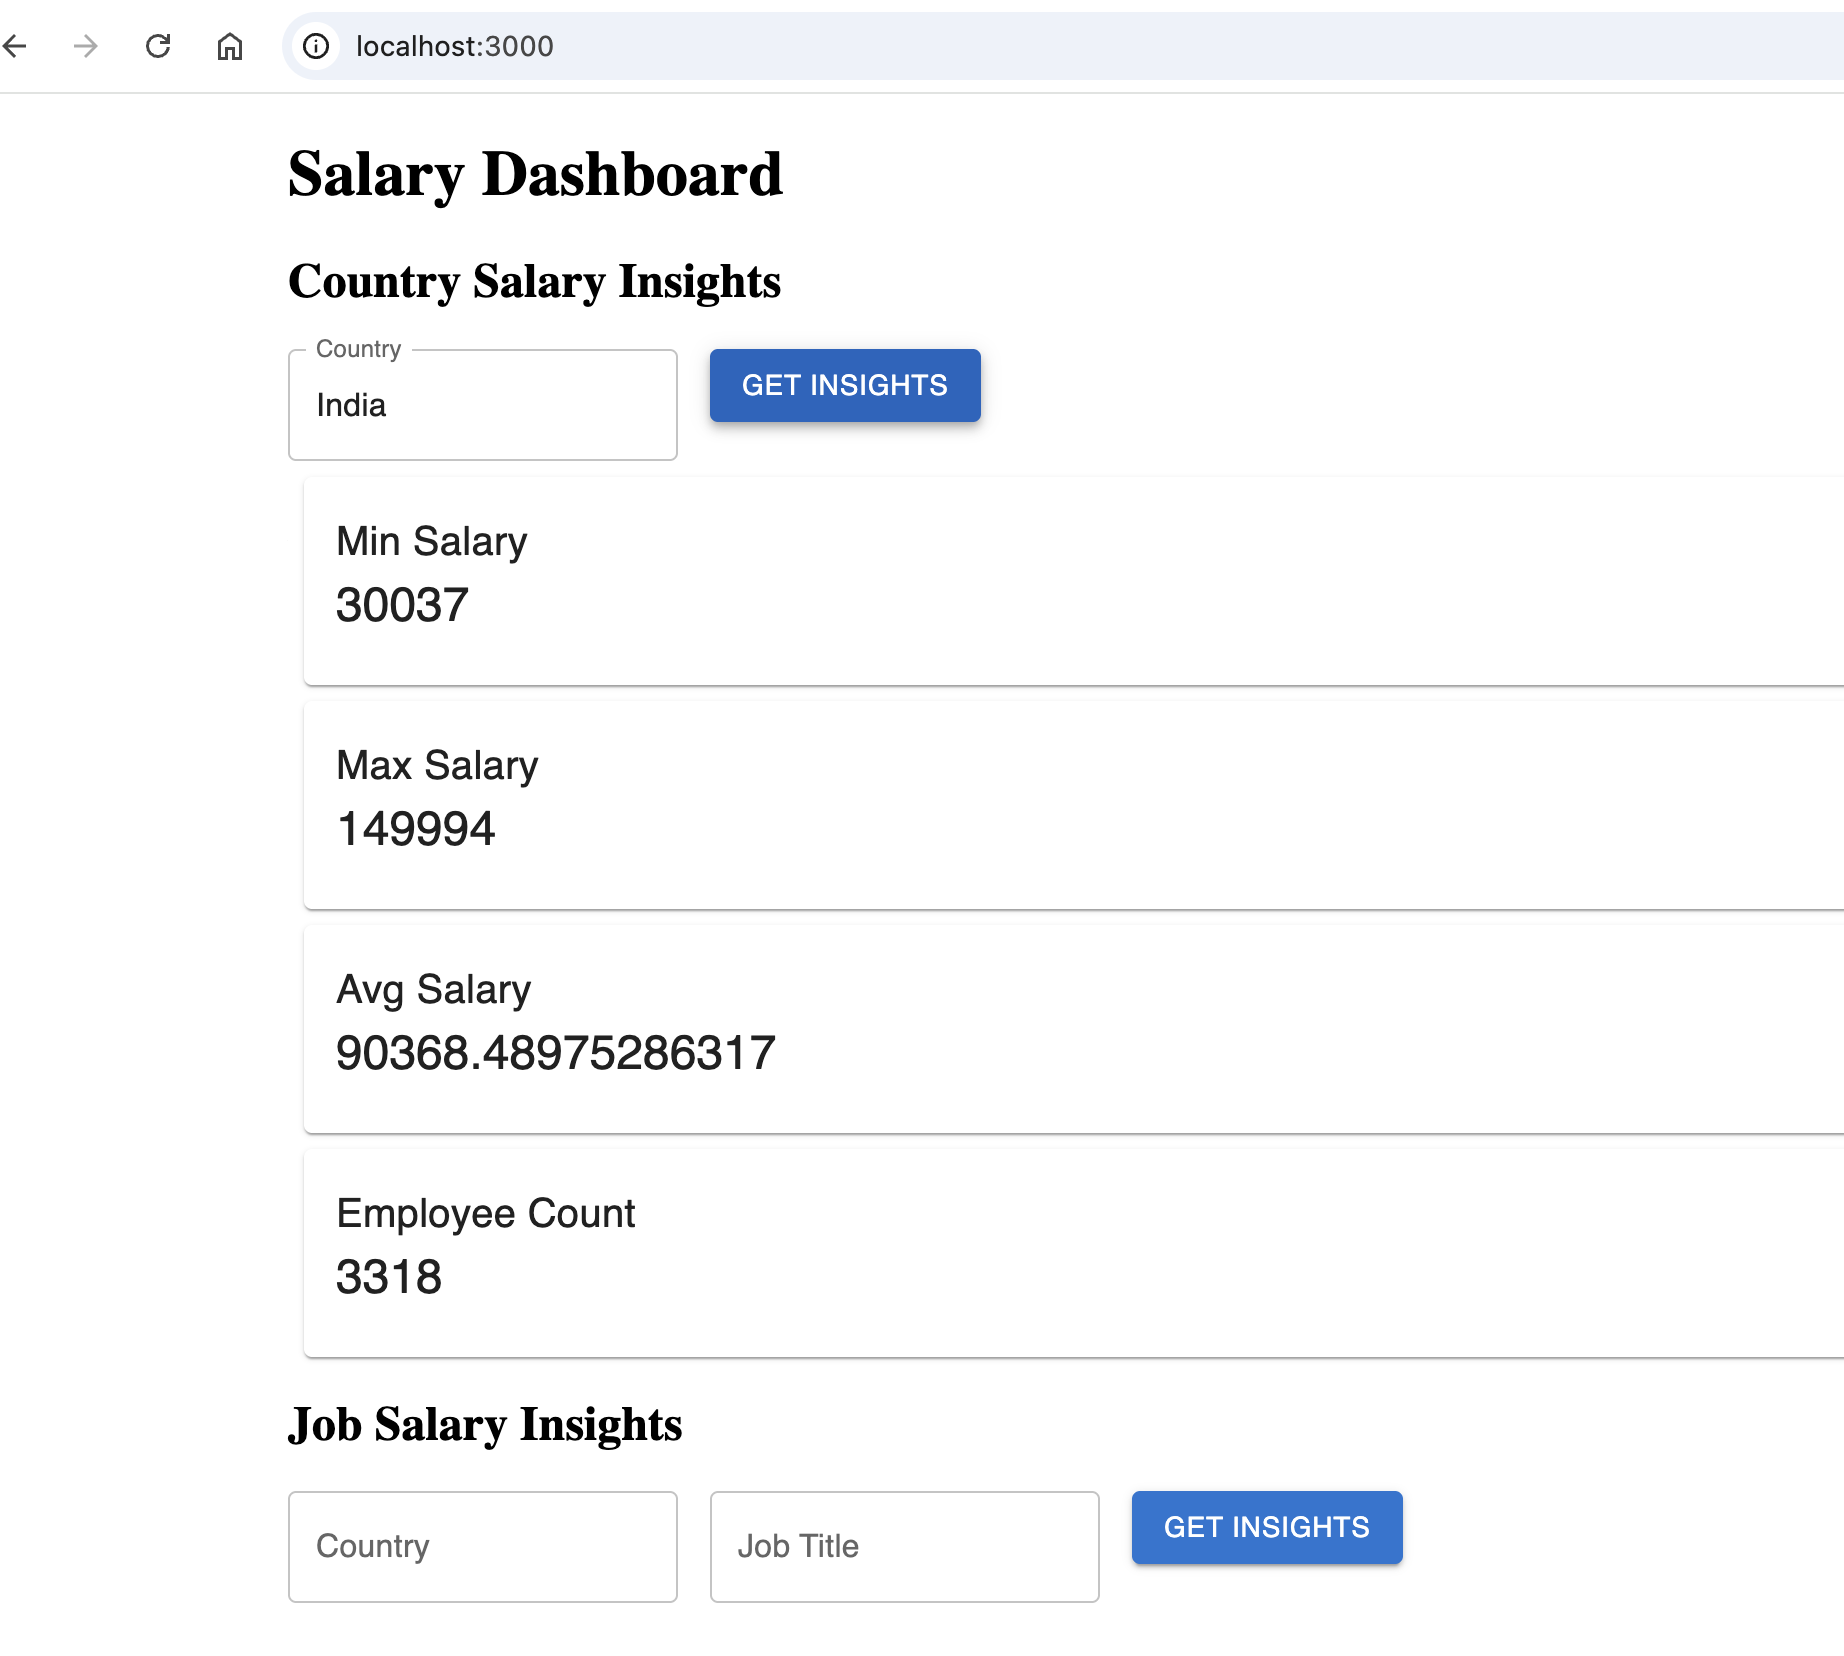
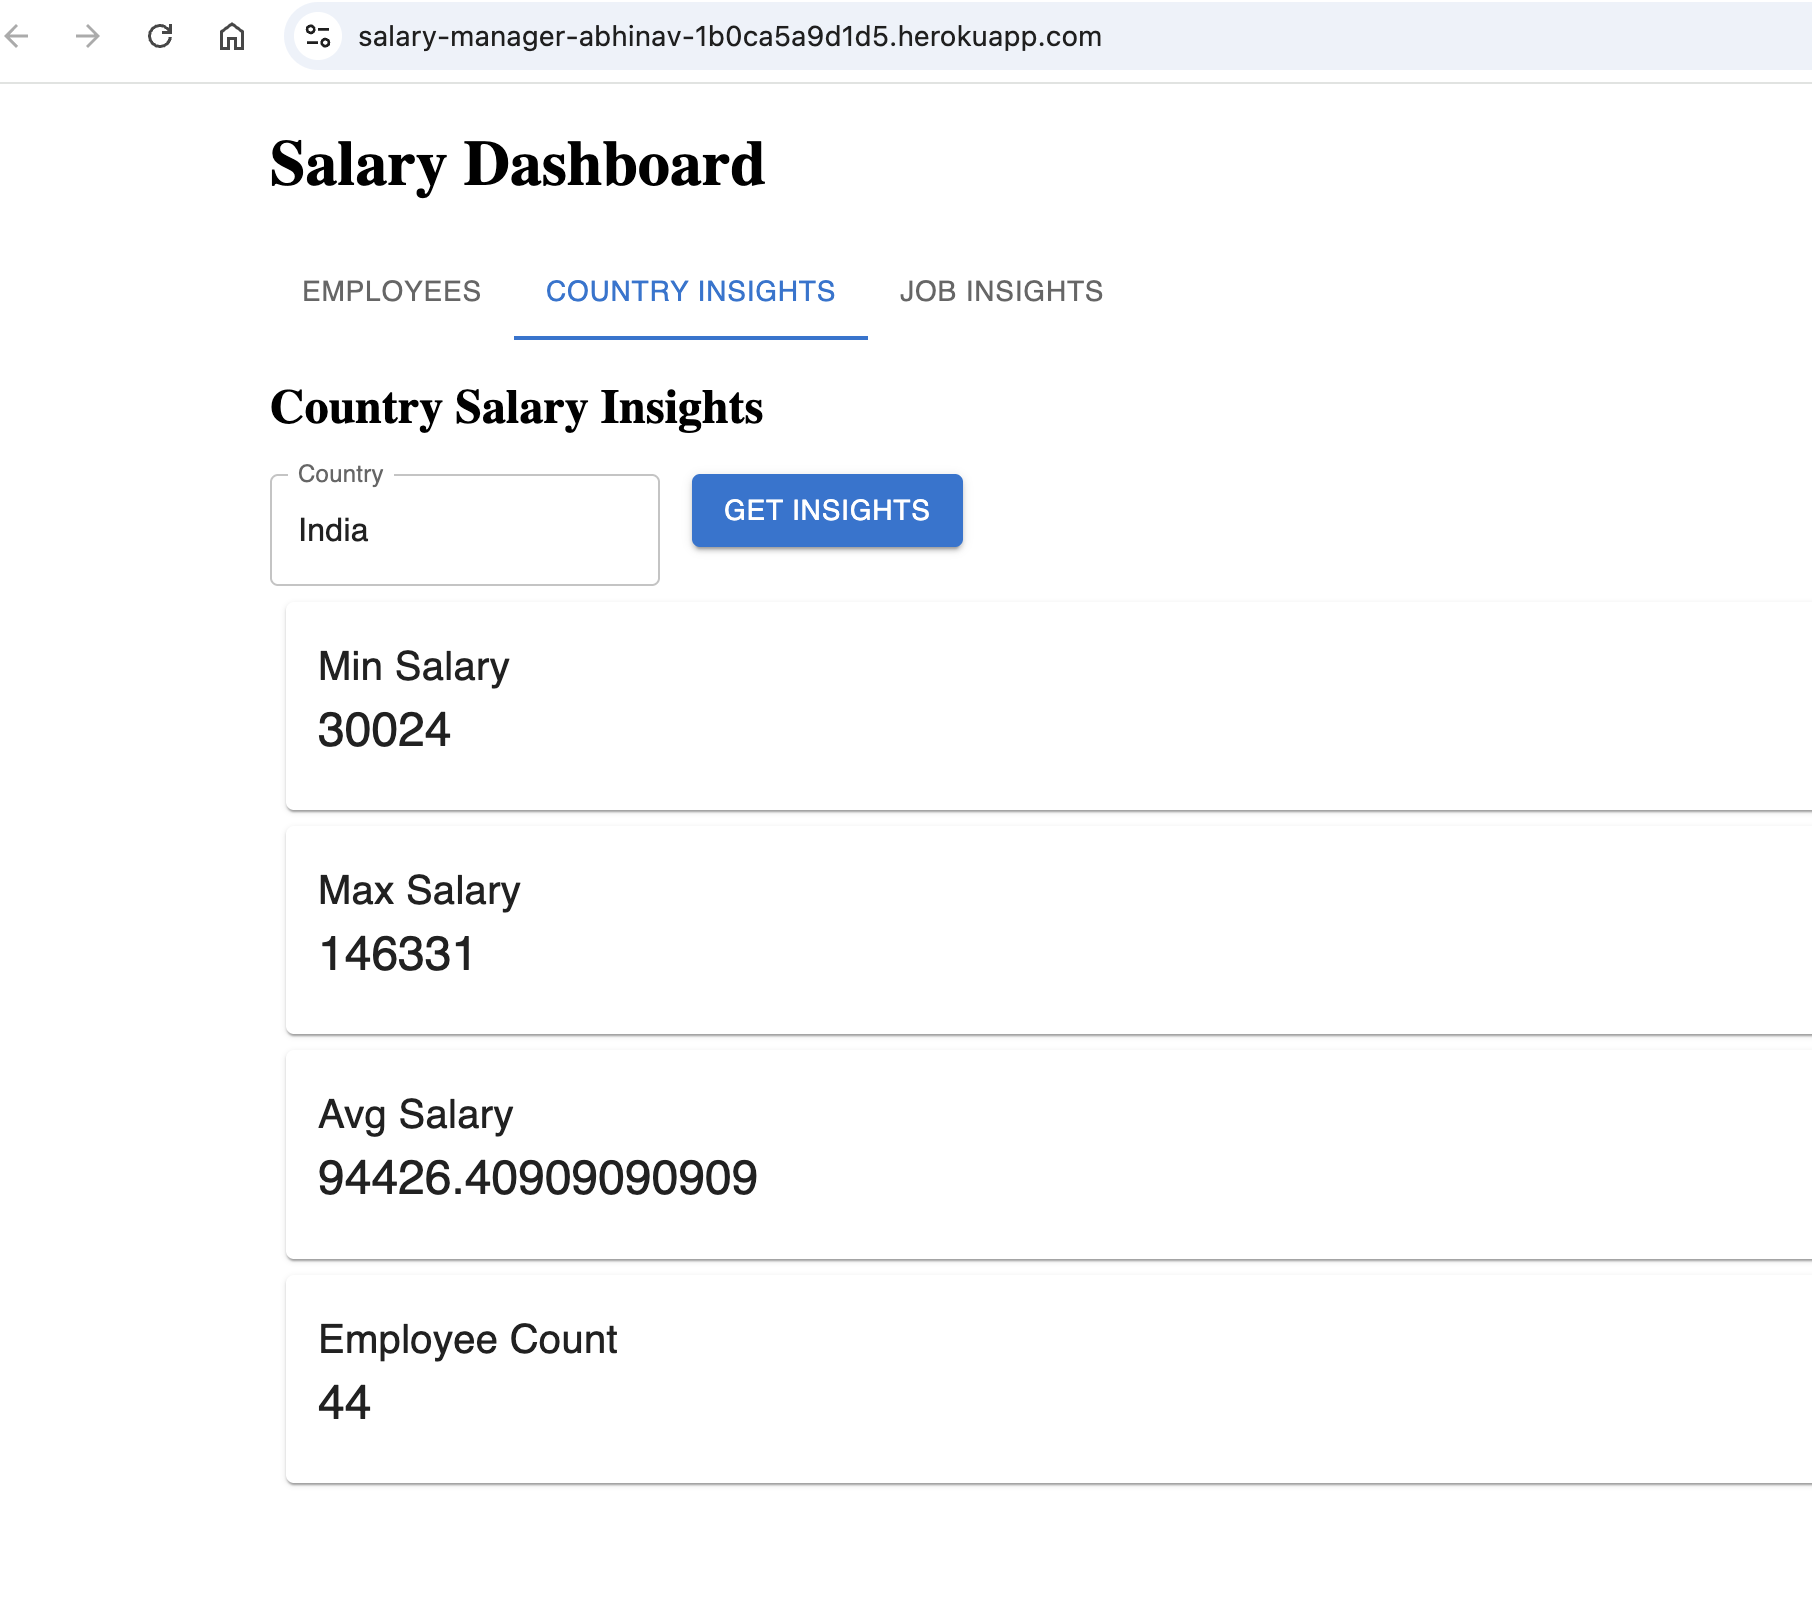
git commit -m "Add planning, architecture, and AI usage artifacts and updated readme"

diff --git a/docs/ai_usage.md b/docs/ai_usage.md
@@ -1,0 +1,42 @@
+# AI Usage Artifacts
+
+## Tools Used
+- ChatGPT
+
+---
+
+## Example Prompts
+
+### 1. Pagination Optimization
+Prompt:
+"How to handle large dataset pagination in Rails efficiently?"
+
+Outcome:
+- Implemented `per_page = 20`
+- Avoided loading 10k records
+
+---
+
+### 2. React CRUD UI
+Prompt:
+"Create a simple React component for employee CRUD operations with API integration"
+
+Outcome:
+- Built Employees.jsx
+- Added create/update/delete
+
+---
+
+### 3. Bug Fix
+Prompt:
+"Why does Employee.find crash before nil check?"
+
+Outcome:
+- Replaced with `find_by`
+- Improved error handling
+
+---
+
+## Learnings
+- AI accelerates development but requires validation
+- Used AI for boilerplate + debugging

diff --git a/README.md b/README.md
@@ -205,12 +205,11 @@ Response:
 
 ---
 
-## 🤖 AI Usage
+## 🧠 Engineering Artifacts
 
-AI tools were used to:
-
-* Generate test cases
-* Improve code structure and debugging
+- Planning Notes: docs/planning.md
+- Architecture: docs/architecture.md
+- AI Usage: docs/ai_usage.md
 
 
 ---
@@ -229,7 +228,16 @@ AI tools were used to:
 * Authentication (HR login)
 * Advanced analytics (percentiles, trends)
 * Export reports (CSV/PDF)
-* Deployment (Render / Heroku / AWS)
+
+---
+
+## 🚀 Live Demo
+
+🌐 Application URL: https://salary-manager-abhinav-1b0ca5a9d1d5.herokuapp.com/
+
+## 🎥 Video Demo
+
+📺 Watch Demo: https://drive.google.com/file/d/1XRzQF_pNX-CzHJB33_GhaW0n9Q1ZomF3/view
 
 ---
 

diff --git a/docs/planning.md b/docs/planning.md
@@ -1,0 +1,24 @@
+# Planning Notes
+
+## Problem Understanding
+Build a salary management tool for HR with:
+- Employee CRUD
+- Salary insights
+- Scale: 10,000 employees
+
+## Key Decisions
+- Backend: Ruby on Rails (fast CRUD, ActiveRecord)
+- Frontend: React (interactive UI)
+- DB: SQLite (simple setup)
+
+## Tradeoffs
+- Used simple pagination instead of cursor-based
+- Chose REST APIs over GraphQL for simplicity
+
+## Performance Considerations
+- Added pagination to avoid loading 10k records
+- Added DB indexes on country and job_title
+
+## Future Improvements
+- Authentication
+- Advanced analytics

diff --git a/docs/architecture.md b/docs/architecture.md
@@ -1,0 +1,35 @@
+# Architecture Overview
+
+## High Level Flow
+
+React UI → Rails API → SQLite DB
+
+## Components
+
+### Frontend
+- React components:
+  - Employees
+  - CountryInsights
+  - JobInsights
+
+### Backend
+- Controllers:
+  - EmployeesController
+  - InsightsController
+
+### Database
+- employees table:
+  - full_name
+  - job_title
+  - country
+  - salary
+
+## Diagram (text)
+
+[React UI]
+     ↓
+[Rails Controllers]
+     ↓
+[ActiveRecord Models]
+     ↓
+[SQLite DB]
